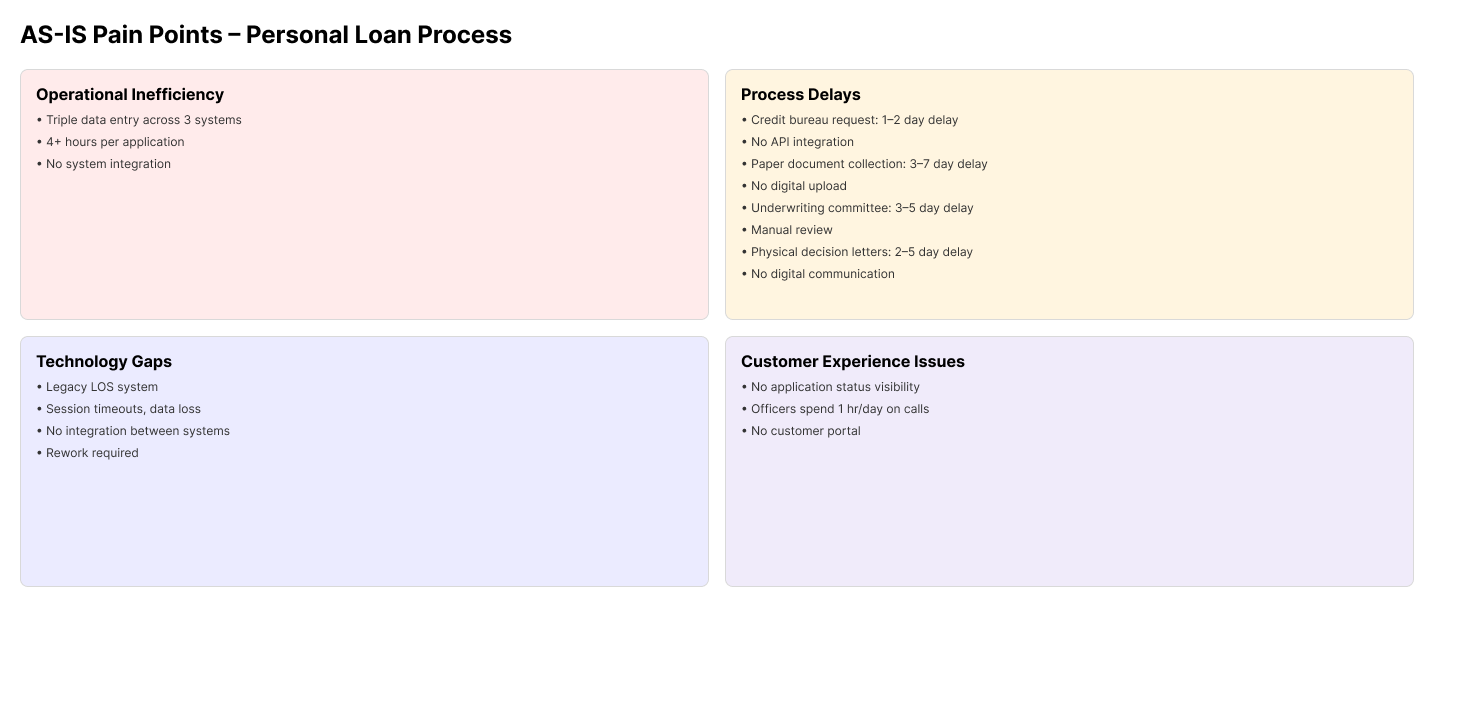
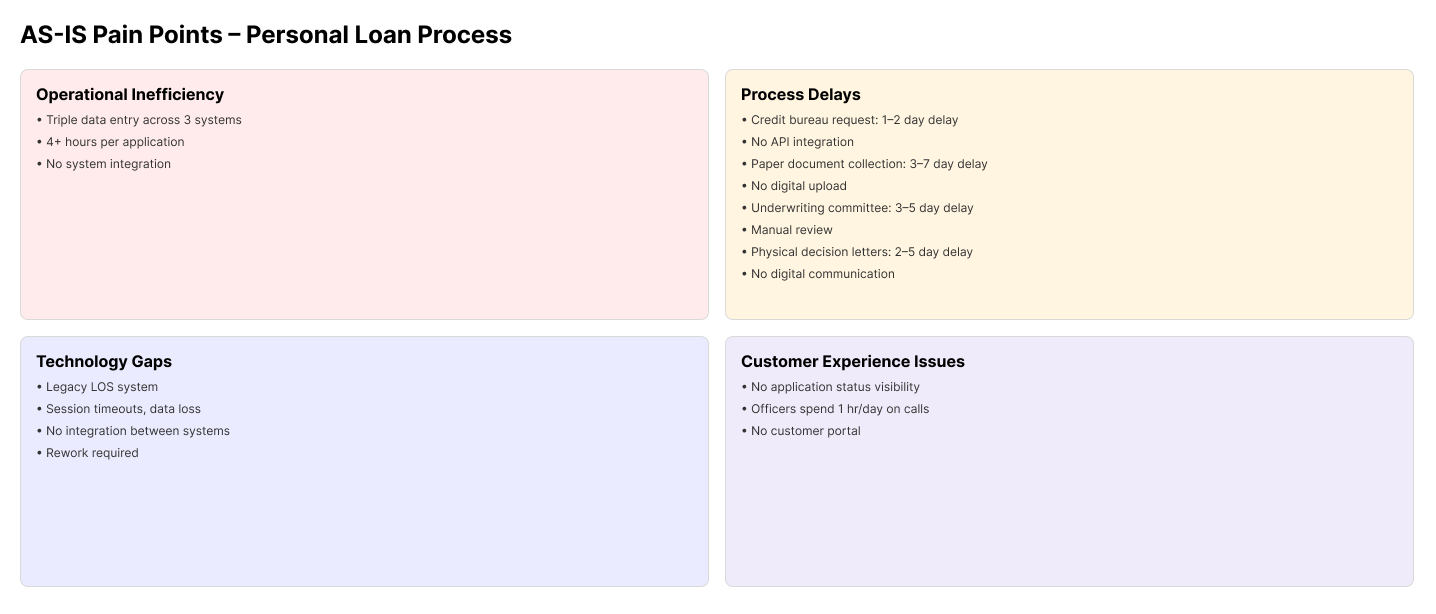
Changes in Image quality

Changed region(s): [[0.0, 0.0309, 1.0, 0.7117], [0.0, 0.4951, 0.1532, 0.7427]]

diff --git a/README.md b/README.md
@@ -89,7 +89,7 @@ ________________________________________
 ## Swimlane Description of the Future State
 Swimlane Description of the Future State. Customers apply via HNB website/app with an intelligent, multi-step wizard; documents are uploaded digitally, and data auto-populates for existing users. Automated credit checks and a decision engine handle approvals, referrals, or declines instantly, while loan officers review edge cases through a dashboard. Customers sign agreements electronically and track status 24/7.
 
-![Loan Process Flow](product_Design/process_flow_diagram.png)
+![Loan Process Flow](product_design/process_flow_diagram.png)
 
 ________________________________________
 
@@ -97,7 +97,7 @@ ________________________________________
 
 The DLOS is treated as a single “black box” system interacting with external entities. Customers submit applications and documents, receive status updates, and e-sign agreements. External systems like Experian/Equifax, FiServ Core Banking, OpenText DMS, DocuSign, and Twilio/SendGrid exchange credit data, profile info, documents, and notifications. Loan officers interact internally to review, annotate, and make decisions.
 
-![Loan Process Flow](product_Design/system_integration_diagram.png)
+![Loan Process Flow](product_design/system_integration_diagram.png)
 ________________________________________
 
 ## ⚡ Importance of JIRA & Kanban
